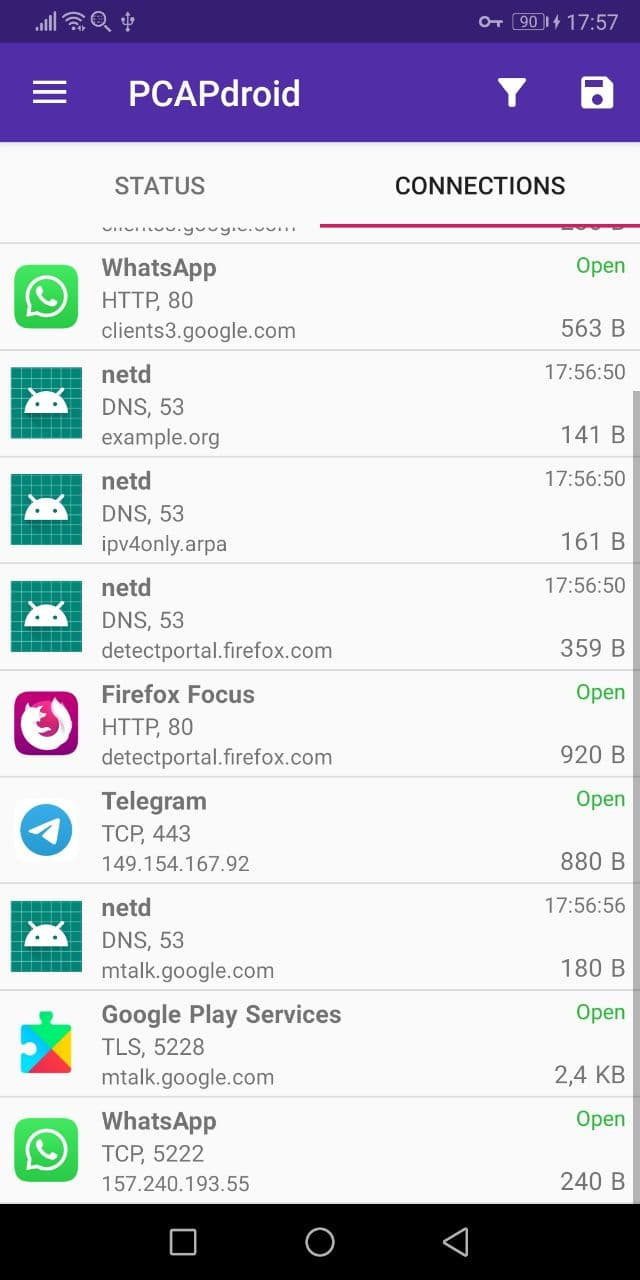
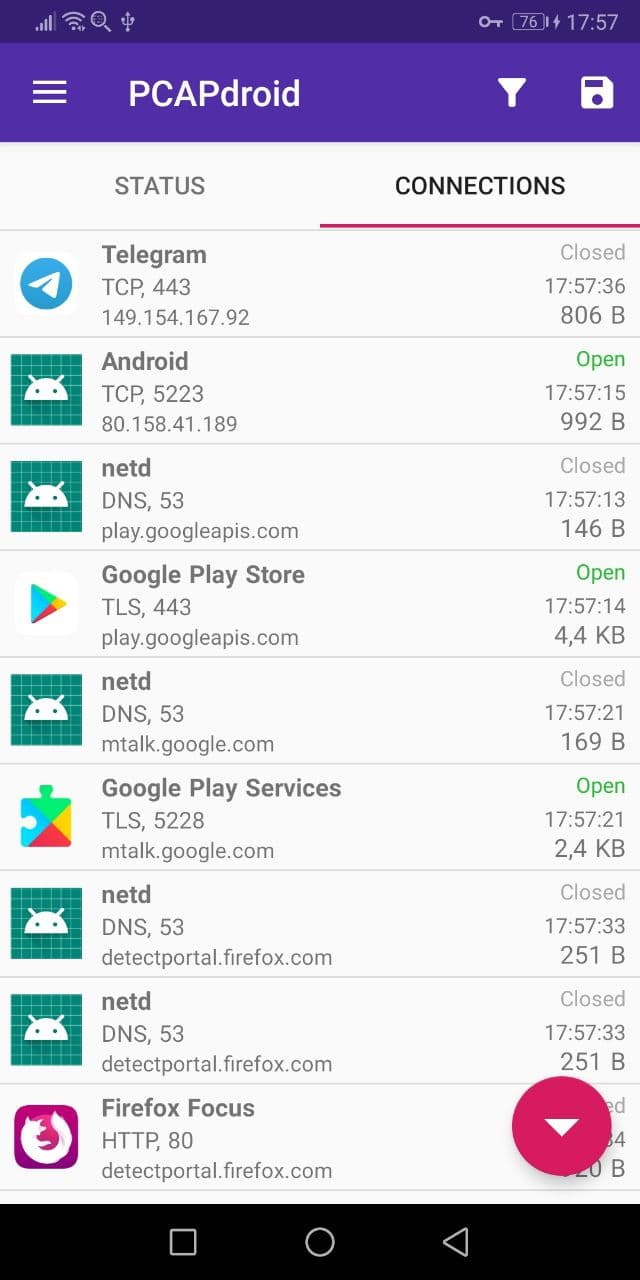
Improve connection status reporting

Changed region(s): [[0.0, 0.1875, 0.5312, 0.9375], [0.7812, 0.1875, 1.0, 0.9375], [0.8125, 0.0, 0.8438, 0.0312]]

diff --git a/app/src/main/java/com/emanuelef/remote_capture/model/ConnectionDescriptor.java b/app/src/main/java/com/emanuelef/remote_capture/model/ConnectionDescriptor.java
@@ -19,10 +19,26 @@
 
 package com.emanuelef.remote_capture.model;
 
+import android.content.Context;
+
+import com.emanuelef.remote_capture.R;
+
 import java.io.Serializable;
 
 /* Equivalent of zdtun_conn_t from zdtun and conn_data_t from vpnproxy.c */
 public class ConnectionDescriptor implements Serializable {
+    // sync with zdtun_conn_status_t
+
+    public static final int CONN_STATUS_NEW = 0,
+        CONN_STATUS_CONNECTING = 1,
+        CONN_STATUS_CONNECTED = 2,
+        CONN_STATUS_CLOSED = 3,
+        CONN_STATUS_ERROR = 4,
+        CONN_STATUS_SOCKET_ERROR = 5,
+        CONN_STATUS_CLIENT_ERROR = 6,
+        CONN_STATUS_RESET = 7,
+        CONN_STATUS_UNREACHABLE = 8;
+
     /* Metadata */
     public int ipver;
     public int ipproto;
@@ -43,15 +59,15 @@ public class ConnectionDescriptor implements Serializable {
     public String l7proto;
     public int uid;
     public int incr_id;
-    public String status;
+    public int status;
 
     /* Invoked by native code
     * NOTE: interleaving String and int in the parameters is not good as it makes the app crash
     * nto the emulator! Better to put the strings first. */
-    public void setData(String _src_ip, String _dst_ip, String _status, String _info, String _url, String _l7proto,
-                        int _ipver, int _ipproto, int _src_port, int _dst_port, long _first_seen, long _last_seen,
-                        long _sent_bytes, long _rcvd_bytes, int _sent_pkts, int _rcvd_pkts, int _uid,
-                        int _incr_id) {
+    public void setData(String _src_ip, String _dst_ip, String _info, String _url, String _l7proto,
+                        int _status, int _ipver, int _ipproto, int _src_port, int _dst_port,
+                        long _first_seen, long _last_seen, long _sent_bytes, long _rcvd_bytes,
+                        int _sent_pkts, int _rcvd_pkts, int _uid, int _incr_id) {
         /* Metadata */
         ipver = _ipver;
         ipproto = _ipproto;
@@ -73,5 +89,26 @@ public class ConnectionDescriptor implements Serializable {
         l7proto = _l7proto;
         uid = _uid;
         incr_id = _incr_id;
+    }
+
+    public String getStatusLabel(Context ctx) {
+        int resid;
+
+        if(status >= CONN_STATUS_CLOSED) {
+            switch(status) {
+                case CONN_STATUS_CLOSED:
+                    resid = R.string.conn_status_closed;
+                    break;
+                case CONN_STATUS_UNREACHABLE:
+                    resid = R.string.conn_status_unreachable;
+                    break;
+                default:
+                    resid = R.string.error;
+                    break;
+            }
+        } else
+            resid = R.string.conn_status_open;
+
+        return(ctx.getString(resid));
     }
 }

diff --git a/app/src/main/jni/vpnproxy-jni/vpnproxy.c b/app/src/main/jni/vpnproxy-jni/vpnproxy.c
@@ -761,7 +761,6 @@ static int dumpConnection(vpnproxy_data_t *proxy, const vpn_conn_t *conn, jobjec
                         data->uid);
 #endif
 
-    jobject status_string = (*env)->NewStringUTF(env, zdtun_conn_status2str(data->status));
     jobject info_string = (*env)->NewStringUTF(env, data->info ? data->info : "");
     jobject url_string = (*env)->NewStringUTF(env, data->url ? data->url : "");
     jobject proto_string = (*env)->NewStringUTF(env, getProtoName(proxy->ndpi, data->l7proto, conn_info->ipproto));
@@ -773,9 +772,9 @@ static int dumpConnection(vpnproxy_data_t *proxy, const vpn_conn_t *conn, jobjec
         /* NOTE: as an alternative to pass all the params into the constructor, GetFieldID and
          * SetIntField like methods could be used. */
         (*env)->CallVoidMethod(env, conn_descriptor, mids.connSetData,
-                               src_string, dst_string, status_string, info_string, url_string, proto_string,
-                               conn_info->ipver, conn_info->ipproto, ntohs(conn_info->src_port),
-                               ntohs(conn_info->dst_port),
+                               src_string, dst_string, info_string, url_string, proto_string,
+                               data->status, conn_info->ipver, conn_info->ipproto,
+                               ntohs(conn_info->src_port), ntohs(conn_info->dst_port),
                                data->first_seen, data->last_seen, data->sent_bytes,
                                data->rcvd_bytes, data->sent_pkts,
                                data->rcvd_pkts, data->uid, data->incr_id);
@@ -795,7 +794,6 @@ static int dumpConnection(vpnproxy_data_t *proxy, const vpn_conn_t *conn, jobjec
         rv = -1;
     }
 
-    (*env)->DeleteLocalRef(env, status_string);
     (*env)->DeleteLocalRef(env, info_string);
     (*env)->DeleteLocalRef(env, url_string);
     (*env)->DeleteLocalRef(env, proto_string);
@@ -958,7 +956,7 @@ static int run_tun(JNIEnv *env, jclass vpn, int tunfd, jint sdk) {
     mids.connInit = jniGetMethodID(env, cls.conn, "<init>", "()V");
     mids.connSetData = jniGetMethodID(env, cls.conn, "setData",
             /* NOTE: must match ConnectionDescriptor::setData */
-            "(Ljava/lang/String;Ljava/lang/String;Ljava/lang/String;Ljava/lang/String;Ljava/lang/String;Ljava/lang/String;IIIIJJJJIIII)V");
+            "(Ljava/lang/String;Ljava/lang/String;Ljava/lang/String;Ljava/lang/String;Ljava/lang/String;IIIIIJJJJIIII)V");
     mids.statsInit = jniGetMethodID(env, cls.stats, "<init>", "()V");
     mids.statsSetData = jniGetMethodID(env, cls.stats, "setData", "(JJIIIIIIII)V");
 

diff --git a/app/src/main/java/com/emanuelef/remote_capture/adapters/ConnectionsAdapter.java b/app/src/main/java/com/emanuelef/remote_capture/adapters/ConnectionsAdapter.java
@@ -58,9 +58,7 @@ public class ConnectionsAdapter extends RecyclerView.Adapter<ConnectionsAdapter.
         TextView l7proto;
         TextView traffic;
         TextView appName;
-        TextView eta;
-        final String mStatusOpen;
-        final String mStatusError;
+        TextView lastSeen;
         final String mProtoAndPort;
 
         ViewHolder(View itemView) {
@@ -72,11 +70,9 @@ public class ConnectionsAdapter extends RecyclerView.Adapter<ConnectionsAdapter.
             traffic = itemView.findViewById(R.id.traffic);
             statusInd = itemView.findViewById(R.id.status_ind);
             appName = itemView.findViewById(R.id.app_name);
-            eta = itemView.findViewById(R.id.eta);
+            lastSeen = itemView.findViewById(R.id.last_seen);
 
             Context context = itemView.getContext();
-            mStatusOpen = context.getString(R.string.conn_status_open);
-            mStatusError = context.getString(R.string.error);
             mProtoAndPort = context.getString(R.string.proto_and_port);
         }
 
@@ -106,24 +102,15 @@ public class ConnectionsAdapter extends RecyclerView.Adapter<ConnectionsAdapter.
             String info_txt = (app != null) ? app.getName() : Integer.toString(conn.uid);
             appName.setText(info_txt);
             traffic.setText(Utils.formatBytes(conn.sent_bytes + conn.rcvd_bytes));
+            lastSeen.setText(Utils.formatEpochShort(context, conn.last_seen));
+            statusInd.setText(conn.getStatusLabel(context));
 
-            if(conn.status.equals("CLOSED")) {
-                eta.setText(Utils.formatEpochShort(context, conn.first_seen));
-
-                eta.setVisibility(View.VISIBLE);
-                statusInd.setVisibility(View.GONE);
-            } else {
-                if(conn.status.equals("ERROR")) {
-                    statusInd.setText(mStatusError);
-                    statusInd.setTextColor(0xFFF20015);
-                } else {
-                    statusInd.setText(mStatusOpen);
-                    statusInd.setTextColor(0xFF28BC36);
-                }
-
-                eta.setVisibility(View.GONE);
-                statusInd.setVisibility(View.VISIBLE);
-            }
+            if(conn.status < ConnectionDescriptor.CONN_STATUS_CLOSED)
+                statusInd.setTextColor(0xFF28BC36); // Open
+            else if(conn.status == ConnectionDescriptor.CONN_STATUS_CLOSED)
+                statusInd.setTextColor(0xFFAAAAAA);
+            else
+                statusInd.setTextColor(0xFFF20015); // Error
         }
     }
 

diff --git a/app/src/main/java/com/emanuelef/remote_capture/ConnectionsRegister.java b/app/src/main/java/com/emanuelef/remote_capture/ConnectionsRegister.java
@@ -277,7 +277,7 @@ public class ConnectionsRegister {
                 builder.append(conn.uid);                                   builder.append(",");
                 builder.append((app != null) ? app.getName() : "");         builder.append(",");
                 builder.append(conn.l7proto);                               builder.append(",");
-                builder.append(conn.status);                                builder.append(",");
+                builder.append(conn.getStatusLabel(context));               builder.append(",");
                 builder.append((conn.info != null) ? conn.info : "");       builder.append(",");
                 builder.append(conn.sent_bytes);                            builder.append(",");
                 builder.append(conn.rcvd_bytes);                            builder.append(",");

diff --git a/app/src/main/java/com/emanuelef/remote_capture/activities/ConnectionDetailsActivity.java b/app/src/main/java/com/emanuelef/remote_capture/activities/ConnectionDetailsActivity.java
@@ -116,7 +116,7 @@ public class ConnectionDetailsActivity extends AppCompatActivity {
             mDurationView.setText(Utils.formatDuration(conn.last_seen - conn.first_seen));
             mFirstSeen.setText(Utils.formatEpochFull(this, conn.first_seen));
             mLastSeen.setText(Utils.formatEpochFull(this, conn.last_seen));
-            mStatus.setText(conn.status);
+            mStatus.setText(conn.getStatusLabel(this));
         }
     }
 
